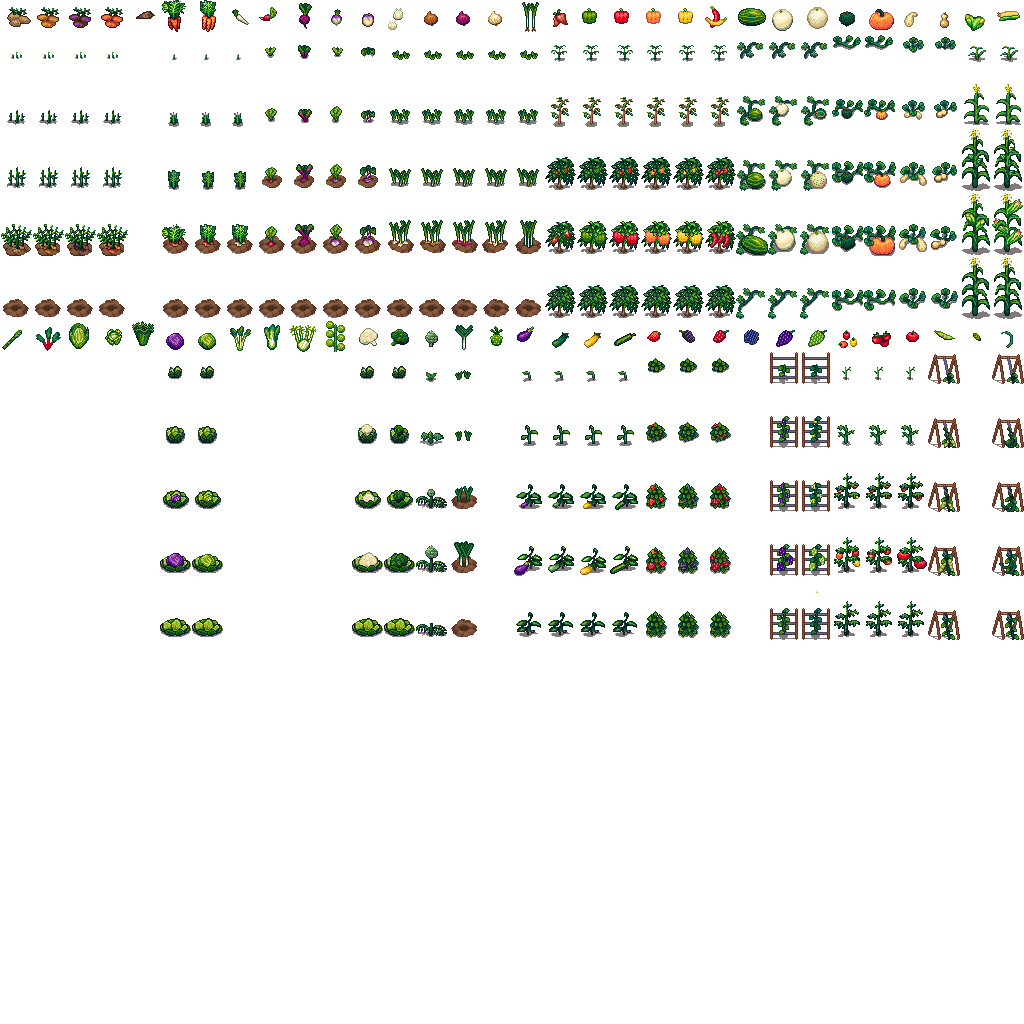
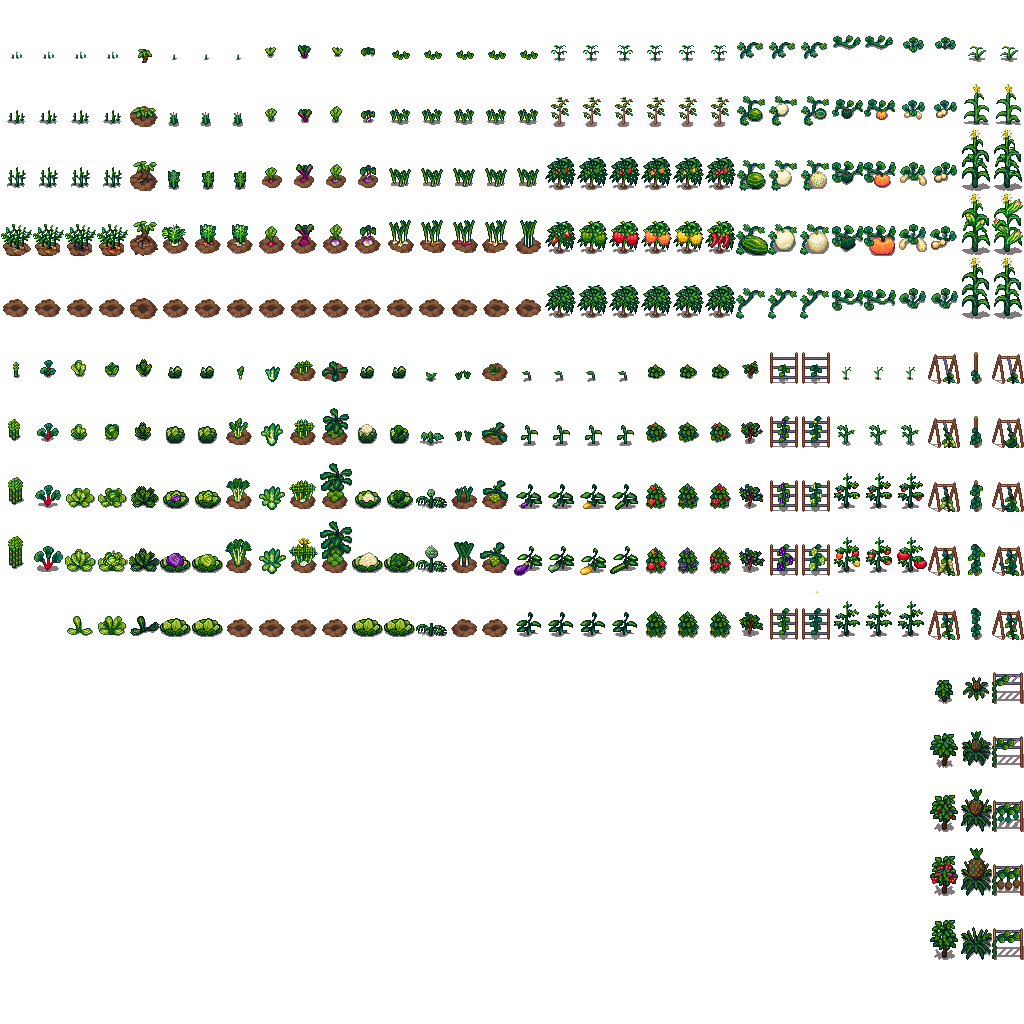
Plants grow now

diff --git a/js/data/unit.js b/js/data/unit.js
@@ -1,29 +1,4 @@
 import { getTileSize } from "../constants.js";
-import { SpriteList } from "../sprites.js";
-
-export const UnitDefs = {
-    AlienAdult: {
-        spritesheet: {
-            name: SpriteList.ALIEN_ADULT,
-            spritesInSheet: { x: 1, y: 1 },
-            spriteCoords: { x: 0, y: 0 },
-        },
-    },
-    AlienYoung: {
-        spritesheet: {
-            name: SpriteList.ALIEN_YOUNG,
-            spritesInSheet: { x: 1, y: 1 },
-            spriteCoords: { x: 0, y: 0 },
-        },
-    },
-    AlienEgg: {
-        spritesheet: {
-            name: SpriteList.ALIEN_EGG,
-            spritesInSheet: { x: 1, y: 1 },
-            spriteCoords: { x: 0, y: 0 },
-        },
-    }
-}
 
 export default class Unit {
     constructor(tileCoord, unitDef) {
@@ -31,6 +6,9 @@ export default class Unit {
         this.unitDef = unitDef;
 
         this.sprite = undefined;
+        this.spriteContainer = new PIXI.Sprite();
+        this.spriteVariant = 0;
+        this.spriteDirty = true;
     }
 
     getSpriteFromDef(pixiLoader) {
@@ -43,8 +21,8 @@ export default class Unit {
         };
 
         const t32Rect = new PIXI.Rectangle(
-            imageSize.x * spriteDef.spriteCoords.x,
-            imageSize.y * spriteDef.spriteCoords.y,
+            imageSize.x * spriteDef.spriteCoords[this.spriteVariant].x,
+            imageSize.y * spriteDef.spriteCoords[this.spriteVariant].y,
             imageSize.x,
             imageSize.y
         );
@@ -56,26 +34,33 @@ export default class Unit {
     }
 
     getSprite(pixiLoader) {
-        if (this.sprite) { return this.sprite; }
+        if (this.sprite && !this.spriteDirty) { return this.sprite; }
+        
+        this.sprite && this.spriteContainer.removeChild(this.sprite);
 
         this.sprite = this.getSpriteFromDef(pixiLoader);
 
         const tileSize = getTileSize();
         
-        this.sprite.position.x = this.tileCoord.x * tileSize.x;
-        this.sprite.position.y = this.tileCoord.y * tileSize.y;
+        // align with bottom center of tile
+        this.spriteContainer.position.x = (this.tileCoord.x + 0.5) * tileSize.x - this.sprite.width / 2;
+        this.spriteContainer.position.y = (this.tileCoord.y + 1) * tileSize.y - this.sprite.height;
 
-        this.sprite.width = tileSize.x;
-        this.sprite.height = tileSize.y;
+        this.spriteDirty = false;
+        this.spriteContainer.addChild(this.sprite);
 
         return this.sprite;
     }
 
     addToContainer(unitContainer, pixiLoader) {
-        const sprite = this.getSprite(pixiLoader);
-        if (sprite.parent) {
+        this.getSprite(pixiLoader);
+        if (this.spriteContainer.parent) {
             throw new Error("Can't have multiple parents.");
         }
-        unitContainer.addChild(sprite);
+        unitContainer.addChild(this.spriteContainer);
+    }
+
+    endTurn() {
+
     }
 }

diff --git a/js/data/unitManager.js b/js/data/unitManager.js
@@ -1,5 +1,8 @@
 import { getMapSize } from "../constants.js";
-import Unit, { UnitDefs } from "./unit.js";
+import { AlienDefs } from "./unitDefs/alienDefs.js";
+import { PlantDefs } from "./unitDefs/plantDefs.js";
+import Alien from "./units/alien.js";
+import Plant from "./units/plant.js";
 
 export default class UnitManager {
     constructor(unitContainer) {
@@ -12,13 +15,24 @@ export default class UnitManager {
         const mapSize = getMapSize();
         const startX = Math.floor(mapSize.x / 4 * 3) - 1;
         const startY = Math.floor(mapSize.y / 2);
-        this.addUnit(pixiLoader, new Unit({ x: startX, y: startY - 1 }, UnitDefs.AlienAdult));
-        this.addUnit(pixiLoader, new Unit({ x: startX, y: startY }, UnitDefs.AlienYoung));
-        this.addUnit(pixiLoader, new Unit({ x: startX, y: startY + 1 }, UnitDefs.AlienEgg));
+        this.addUnit(pixiLoader, new Alien({ x: startX, y: startY - 1 }, AlienDefs.AlienAdult));
+        this.addUnit(pixiLoader, new Alien({ x: startX, y: startY }, AlienDefs.AlienYoung));
+        this.addUnit(pixiLoader, new Alien({ x: startX, y: startY + 1 }, AlienDefs.AlienEgg));
+
+        const plantStartY = 3;
+        for (let x = 3; x < 7; x++) {
+            this.addUnit(pixiLoader, new Plant({ x, y: plantStartY }, PlantDefs.Potato));
+            this.addUnit(pixiLoader, new Plant({ x, y: plantStartY + 1 }, PlantDefs.Peppers));
+        }
+        
     }
 
     addUnit(pixiLoader, unit) {
         this.units.push(unit);
         unit.addToContainer(this.unitContainer, pixiLoader);
+    }
+
+    endTurn(pixiLoader) {
+        this.units.forEach(unit => unit.endTurn(pixiLoader));
     }
 }

diff --git a/js/game.js b/js/game.js
@@ -1,12 +1,13 @@
-import AssetLoader, { SpriteList } from './sprites.js';
+import AssetLoader from './sprites.js';
 import GameDataManager from './data/gameDataManager.js';
-import { getCanvasSize } from './constants.js';
+import { getPixiCanvasSize } from './constants.js';
+import ControlsManager from './data/controlsManager.js';
 
 const DEBUG_MODE = false;
 
 export default class MainGame {
-    constructor(canvasElement) {
-        this.pixiApp = new PIXI.Application(getCanvasSize());
+    constructor(canvasElement, controlsElement) {
+        this.pixiApp = new PIXI.Application(getPixiCanvasSize());
         this.pixiApp.renderer.backgroundColor = 0x22AA22;
         this.pixiLoader = new PIXI.Loader();
 
@@ -21,6 +22,10 @@ export default class MainGame {
         };
 
         this.gameDataManager = new GameDataManager(this.renderContainers);
+
+        ControlsManager.createControlsUI(controlsElement, () => {
+            this.endTurn();
+        });
     }
     
     startLoad() {
@@ -39,5 +44,9 @@ export default class MainGame {
 
         this.gameDataManager.terrainManager.createTerrain(this.renderContainers.terrain, this.pixiLoader);
         this.gameDataManager.unitManager.createInitialUnits(this.pixiLoader);
+    }
+
+    endTurn() {
+        this.gameDataManager.unitManager.endTurn(this.pixiLoader);
     }
 }

diff --git a/js/data/unitDefs/alienDefs.js b/js/data/unitDefs/alienDefs.js
@@ -1,0 +1,25 @@
+import { SpriteList } from "../../sprites.js";
+
+export const AlienDefs = {
+    AlienAdult: {
+        spritesheet: {
+            name: SpriteList.ALIEN_ADULT,
+            spritesInSheet: { x: 1, y: 1 },
+            spriteCoords: [{ x: 0, y: 0 }],
+        },
+    },
+    AlienYoung: {
+        spritesheet: {
+            name: SpriteList.ALIEN_YOUNG,
+            spritesInSheet: { x: 1, y: 1 },
+            spriteCoords: [{ x: 0, y: 0 }],
+        },
+    },
+    AlienEgg: {
+        spritesheet: {
+            name: SpriteList.ALIEN_EGG,
+            spritesInSheet: { x: 1, y: 1 },
+            spriteCoords: [{ x: 0, y: 0 }],
+        },
+    }
+}

diff --git a/js/data/unitDefs/plantDefs.js b/js/data/unitDefs/plantDefs.js
@@ -1,0 +1,20 @@
+import { SpriteList } from "../../sprites.js";
+
+export const PlantDefs = {
+    Potato: {
+        stages: 4,
+        spritesheet: {
+            name: SpriteList.CROPSHEET,
+            spritesInSheet: { x: 32, y: 16 },
+            spriteCoords: [{ x: 0, y: 0 }, { x: 0, y: 1 }, { x: 0, y: 2 }, { x: 0, y: 3 }],
+        },
+    },
+    Peppers: {
+        stages: 4,
+        spritesheet: {
+            name: SpriteList.CROPSHEET,
+            spritesInSheet: { x: 32, y: 16 },
+            spriteCoords: [{ x: 22, y: 0 }, { x: 22, y: 1 }, { x: 22, y: 2 }, { x: 22, y: 3 }],
+        },
+    },
+}

diff --git a/js/sprites.js b/js/sprites.js
@@ -4,6 +4,7 @@ export const SpriteList = {
     ALIEN_YOUNG: 'alien_young',
     ALIEN_EGG: 'alien_egg',
     TERRAIN: 'terrain',
+    CIRCLE: 'circle',
 };
 
 export default class AssetLoader {
@@ -16,6 +17,8 @@ export default class AssetLoader {
             .add(SpriteList.ALIEN_ADULT, '/assets/AlienAdult.png')
             .add(SpriteList.ALIEN_YOUNG, '/assets/AlienYoung.png')
             .add(SpriteList.ALIEN_EGG, '/assets/AlienEgg.png')
+            // other
+            .add(SpriteList.CIRCLE, '/assets/plain-circle.png')
             ;
 
         pixiLoader.onComplete.add(() => { 

diff --git a/js/constants.js b/js/constants.js
@@ -1,14 +1,14 @@
 export function getMapSize() {
-    return { x: 20, y: 15 };
+    return { x: 20, y: 10 };
 }
 
-export function getCanvasSize() {
-    return { x: 800, y: 600 };
+export function getPixiCanvasSize() {
+    return { x: 800, y: 400 };
 }
 
 export function getTileSize() {
     const { x: mapSizeX, y: mapSizeY } = getMapSize();
-    const { x: canvasSizeX, y: canvasSizeY } = getCanvasSize();
+    const { x: canvasSizeX, y: canvasSizeY } = getPixiCanvasSize();
 
     return { x: canvasSizeX / mapSizeX, y: canvasSizeY / mapSizeY };
 }

diff --git a/js/data/units/plant.js b/js/data/units/plant.js
@@ -1,0 +1,15 @@
+import Unit from "../unit.js"
+
+export default class Plant extends Unit {
+    constructor(tileCoord, unitDef) {
+        super(tileCoord, unitDef);
+        this.stage = 0;
+    }
+
+    endTurn(pixiLoader) {
+        this.stage = Math.min(this.stage + 1, this.unitDef.stages - 1);
+        this.spriteVariant = this.stage;
+        this.spriteDirty = true;
+        this.getSprite(pixiLoader);
+    }
+}

diff --git a/js/main.js b/js/main.js
@@ -1,7 +1,10 @@
 import MainGame from './game.js';
 
 $('document').ready(() => {
-    const mainGame = new MainGame(document.getElementById('gameBody'));
+    const mainGame = new MainGame(
+        document.getElementById('gameBody'),
+        document.getElementById('gameControls')
+    );
     
     mainGame.startLoad();
 });

diff --git a/js/data/controlsManager.js b/js/data/controlsManager.js
@@ -1,0 +1,9 @@
+class ControlsManagerSingleton {
+    createControlsUI(controlsElement, endTurnCallback) {
+        controlsElement.append(
+            $('<div></div>').text("End Turn").addClass('endTurnButton').on('click', () => { endTurnCallback(); })[0]
+        );
+    }
+}
+
+export default new ControlsManagerSingleton();

diff --git a/js/data/terrainSprite.js b/js/data/terrainSprite.js
@@ -145,6 +145,7 @@ export default class TerrainSprite {
             terrainSprite.width = tileSizeX;
             terrainSprite.height = tileSizeY;
             this.containerSprite.addChild(terrainSprite);
+
             return terrainSprite;
         }
         return backgroundTerrainSprite;

diff --git a/js/data/unitDefs/unitDefs.js b/js/data/unitDefs/unitDefs.js
@@ -1,0 +1,7 @@
+import { AlienDefs } from './alienDefs.js'
+import { PlantDefs } from './plantDefs.js'
+
+export const UnitDefs = {
+    ...AlienDefs,
+    ...PlantDefs
+}
